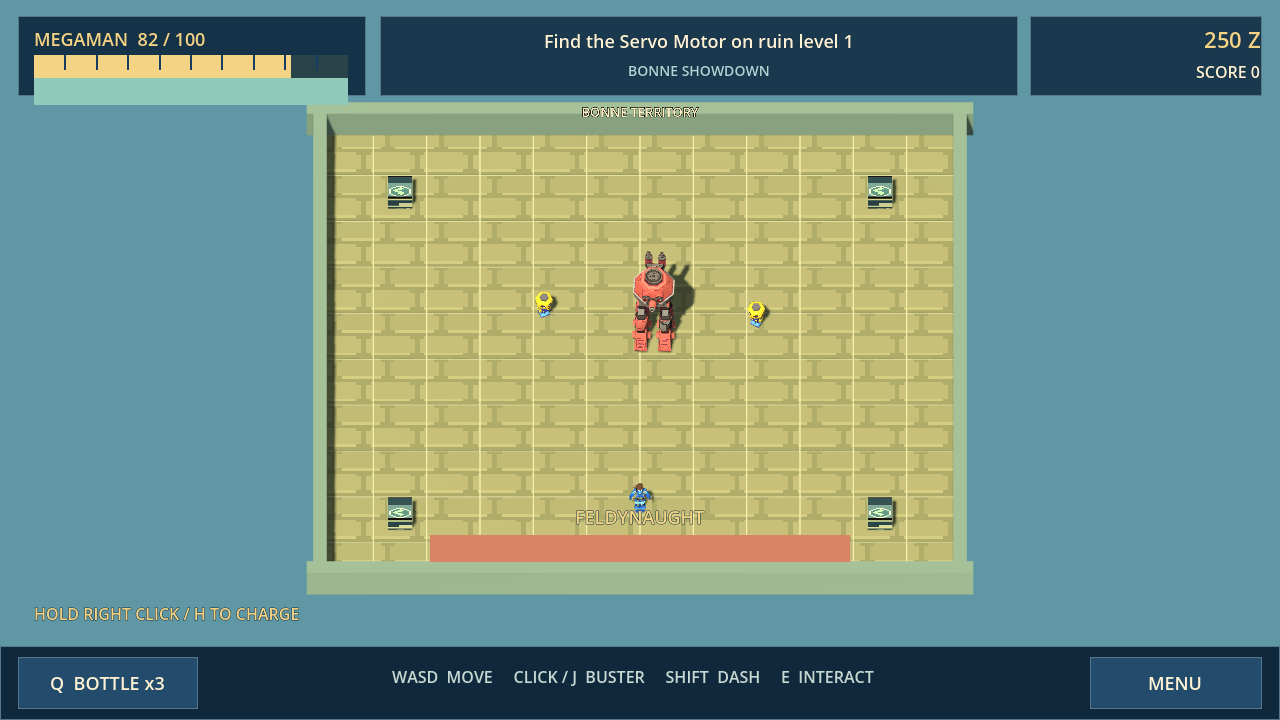
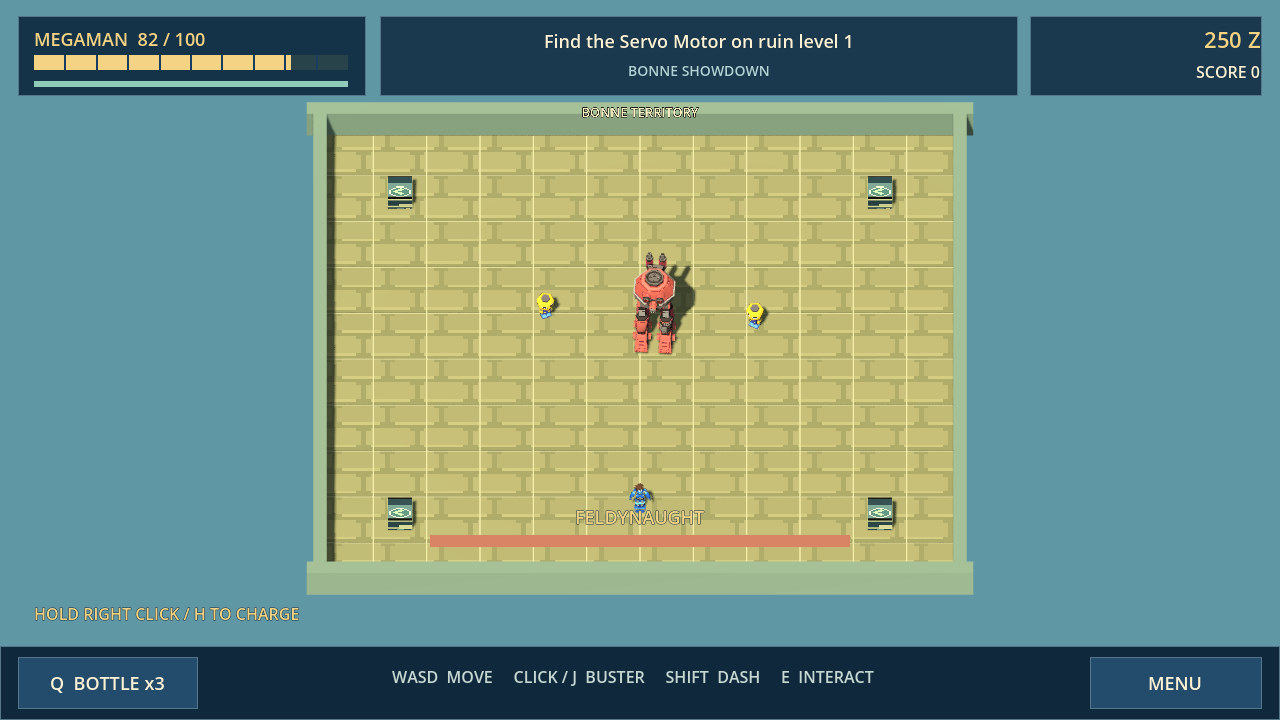
Improve top-down combat feedback and controls in Flutterbound 0.4.1
Add saved camera zoom, controller trigger charging, movement-driven leg poses, hit flashes and enemy health feedback. Fix simultaneous fire/charge, stale mouse aim, oversized HUD meters, new-adventure cancellation and locked-floor travel.

Validate 29 campaign/physics checks, normal-input Bonne combat, standalone Windows/Web exports and browser settings persistence.

diff --git a/tools/package_game.py b/tools/package_game.py
@@ -11,7 +11,8 @@ packages.mkdir(exist_ok=True)
 common = f"""Mega Man Legends: Flutterbound {version}
 
 WASD/arrows: move. Mouse: aim. Left click/J: fire. K: lock.
-Hold right click/H, then release: charged Buster. Shift: dash.
+Hold right click/H/controller RT, then release: charged Buster. Shift: dash.
+Mouse wheel: camera zoom (saved).
 E/F/Space: interact. Q: energy bottle. L: crafted Grenade Arm.
 Esc: pause. M: map. Tab: equipment. F11: fullscreen.
 Controller: left stick moves, right stick aims, X fires, RB dashes,

diff --git a/docs/VALIDATION.md b/docs/VALIDATION.md
@@ -1,4 +1,4 @@
-# Flutterbound 0.4 validation
+# Flutterbound 0.4.1 validation
 
 Godot **4.7.2**, GL compatibility renderer, 1280 × 720 UI, fixed overhead 3D camera and 60 Hz physics. Windows x86_64 and single-threaded WebGL 2 exports.
 
@@ -6,16 +6,16 @@ Godot **4.7.2**, GL compatibility renderer, 1280 × 720 UI, fixed overhead 3D ca
 
 `python tools/check_game.py --godot godot --export` imports the source, rejects runtime errors, executes the following checks and exports both targets:
 
-- **24 campaign/physics checks:** title/new adventure, quest start, cabin healing, input movement, merged-wall collision, dash movement/energy, guarded cache, loot/score, all three repairs, guardian/Tron appearance, Bonne unlock, ending, priced upgrade, Grenade Arm crafting, advancing Deep Digs, bottle use, defeat recovery, atomic save/reload and credits navigation.
+- **29 campaign/physics checks:** title/new adventure, quest start, cabin healing, input movement, merged-wall collision, dash movement/energy, guarded cache, loot/score, all three repairs, guardian/Tron appearance, Bonne unlock, ending, priced upgrade, Grenade Arm crafting, advancing Deep Digs, bottle use, defeat recovery, atomic save/reload credits navigation, safe new-adventure cancellation, thin meter dimensions, locked-floor rejection and saved camera zoom.
 - **Normal-input Bonne playtest:** active AI, ordinary movement, lock-on, Buster fire and dash, starting armour/power and three bottles. The recorded run defeats the Feldynaught with 100 health, three bottles remaining and 1315 score. No enemy health reduction, frozen enemies or player-stat boosts are used for this fight.
-- **Isolated combat checks:** keyboard hold/release charges for 40 damage; swept shots stop at arena walls; rigid-body grenade splash deals 48 damage; pause freezes and resume advances projectiles. Enemies are frozen only for these isolated collision/damage assertions.
+- **Isolated combat checks:** keyboard hold/release charges for 40 damage even while normal fire is held; right-stick aim takes priority over stale mouse aim; hits expose health feedback; swept shots stop at arena walls; rigid-body grenade splash deals 48 damage; pause freezes and resume advances projectiles. Enemies are frozen only for these isolated collision/damage assertions.
 - **Self-contained exports:** Windows embedded pack and Web PCK mounted from an empty project. All four areas start, visible actor meshes have textures, music is available and tests/authoring tools are excluded.
 
 ## Rendered and browser checks
 
 `tests/legends_visual.gd` captures the title, crew dialogue, Flutter landing, cabin, workbench, five pause tabs, ruins, map and Bonne arena with actual native rendering. Reviewed with Mesa OpenGL; no script errors or leaked resources remain. Screenshots in the README come from the running game.
 
-`tools/browser_check.cjs` uses a fresh Playwright browser profile. Chromium 154 / WebGL 2 renders the actual textured models. The playtest exercises dialogue, mouse fire/charge, movement/dash, pause/options/map, IndexedDB persistence, reload and Continue, and rejects browser/Godot errors. Reduced-motion settings survive the reload.
+`tools/browser_check.cjs` uses a fresh Playwright browser profile. Chromium 154 / WebGL 2 renders the actual textured models. The playtest exercises dialogue, mouse fire/charge, movement/dash, pause/options/map, IndexedDB persistence, reload and Continue, and rejects browser/Godot errors. Reduced-motion and zoom settings survive the reload.
 
 `tools/package_game.py` adds instructions and asset credits, checks ZIP integrity and compares the packaged executable/PCK bytes with the verified exports.
 

diff --git a/README.md b/README.md
@@ -1,12 +1,14 @@
 # Mega Man Legends: Flutterbound
 
-A top-down Mega Man Legends fan adventure. Explore connected ruins, fight Reaverbots and Bonne machinery, salvage upgrades and return to your crew aboard the Flutter. Version **0.4.0** replaces the farming prototype with a focused action game using textured 3D models and an overhead camera.
+A top-down Mega Man Legends fan adventure. Explore connected ruins, fight Reaverbots and Bonne machinery, salvage upgrades and return to your crew aboard the Flutter. Version **0.4.1** replaces the farming prototype with a focused action game using textured 3D models and an overhead camera.
 
 ![The Flutter landing](docs/screenshots/flutterbound-landing.png)
 
 ## Play
 
 Download **Flutterbound-Windows** from the latest successful [build workflow](https://github.com/myplexscripts/mml/actions/workflows/godot-check.yml), extract it and open `Flutterbound.exe`. No engine installation is needed. The Web build requires an HTTP server and a WebGL 2 browser. Open the source in **Godot 4.7.2** and press F5 to develop or play it.
+
+Version 0.4.1 improves combat feedback with hit flashes and enemy health bars, fixes simultaneous fire/charge and controller aim switching, adds saved camera zoom and corrects new-adventure cancellation and locked-floor travel. Character walking follows actual movement, and HUD meters retain their intended dimensions. Existing Flutterbound saves stay compatible.
 
 ## The adventure
 
@@ -24,7 +26,7 @@ Combat has independent movement and aiming, visible-enemy lock-on, charged shots
 | --- | --- | --- |
 | Move / aim | WASD or arrows / mouse | Left / right stick |
 | Fire | Hold left click or J | X |
-| Charged Buster | Hold right click or H, then release | Keyboard / mouse |
+| Charged Buster | Hold right click or H, then release | Hold RT, then release |
 | Lock on | Hold K | LB |
 | Dash | Shift | RB |
 | Interact / dialogue | E, F or Space | A |
@@ -32,6 +34,7 @@ Combat has independent movement and aiming, visible-enemy lock-on, charged shots
 | Energy bottle | Q | Y |
 | Pause | Esc or Menu | Start |
 | Map / equipment | M / Tab | Pause tabs |
+| Camera zoom | Mouse wheel | Mouse / saved preference |
 | Fullscreen | F11 | Window controls |
 
 ## Saves
